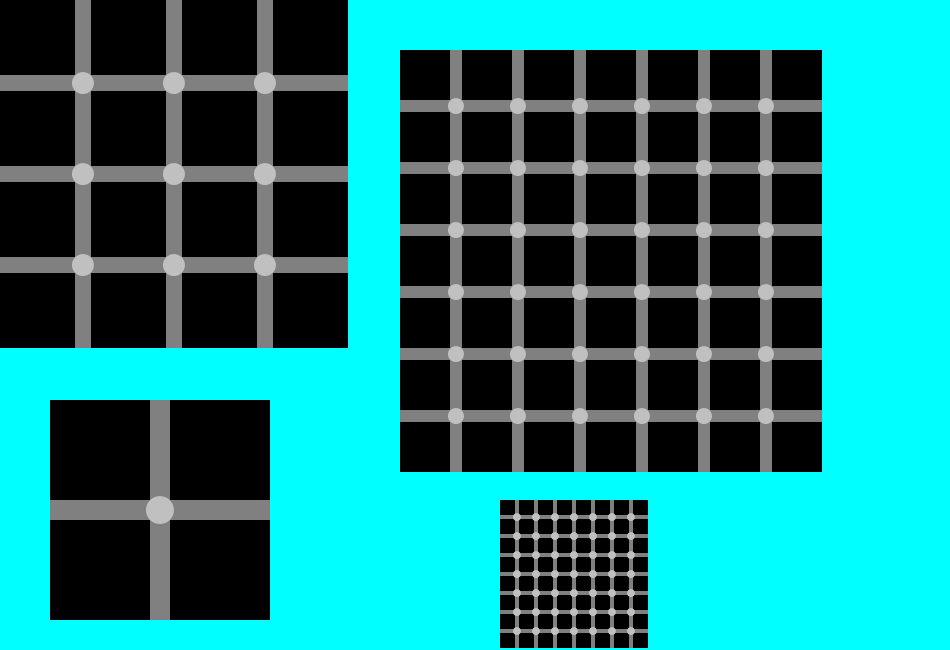
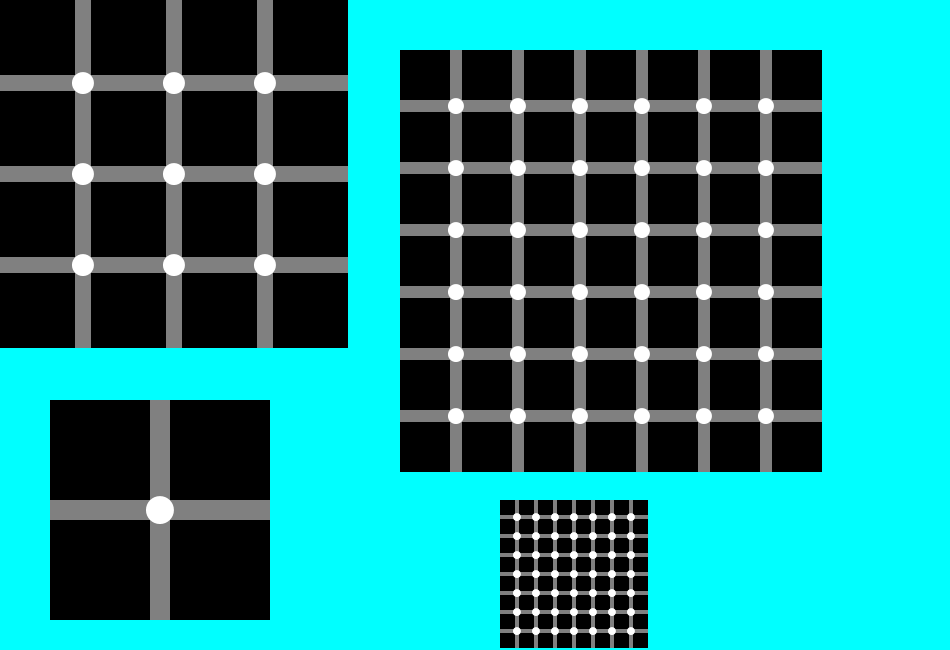
Finished MyPicture.java

diff --git a/UniUnison/project03/MyPicture.java b/UniUnison/project03/MyPicture.java
@@ -5,7 +5,7 @@ import java.io.IOException;
 /**
  * CS312 Assignment 3.
  *
- * Replace <NAME> with your name, stating on your honor you completed this
+ * Replace Pheanouk Hun with your name, stating on your honor you completed this
  * assignment on your own and that you didn't share your code with other
  * students.
  * 
@@ -48,6 +48,10 @@ public class MyPicture {
 
 	// This is an example graphic. Delete the body of this method and write your own.
 	// Do not alter the method header.
+	// Purpose: Draws Both Half of the Flags
+	// Parameters: gr - graphics object
+	// Output: Draws the American and Cambodian Flags
+	// Return: none
 	private static void drawPicture(Graphics gr) {
 		gr.setColor(BLACK_COLOR);
 		gr.fillRect(0, 0, WIDTH, HEIGHT);
@@ -56,12 +60,20 @@ public class MyPicture {
 		drawCambodianSide(gr);
 	}
 
+	// Purpose: This method draws the American Side of the Function
+	// Parameters: gr - graphics object
+	// Output: Draws the American Side of the Flags
+	// Return: none
 	public static void drawAmericanSide(Graphics gr) {
 		drawStripes(gr);
 		drawBlueSection(gr);
 		drawStarSection(gr); 
 	}
 
+	// Purpose: This method draws the Blue Square of the American Flag
+	// Parameters: gr - graphics object
+	// Output: Draws the Blue Square in the Top Left Portion of the Flag.
+	// Return: none
 	public static void drawBlueSection(Graphics gr) {
 		int blueSectionX = PIXEL;
 		int blueSectionY = PIXEL;
@@ -71,6 +83,10 @@ public class MyPicture {
 		gr.fillRect(blueSectionX, blueSectionY, blueSectionDimension, blueSectionDimension);
 	}
 
+	// Purpose: This Method draws the Stars in the Top-Left portion of the American Flag
+	// Parameters: gr - graphics object
+	// Output: This method draws 13 boxes to the Top-Left Corner of the American Flag
+	// Return: none
 	public static void drawStarSection(Graphics gr) {
 
 		int stepSize = 2 * PIXEL;
@@ -82,10 +98,12 @@ public class MyPicture {
 		startingX = 3 * PIXEL;
 		startingY = 3 * PIXEL;
 		drawEvenStars(gr, startingX, startingY, stepSize);
-
-		
 	}
 
+	// Purpose: This method draws the Odd numbered stars in the Top-Left Portion of the American Flag
+	// Parameters: gr - graphics object
+	// Output: This method draws 9 Stars to the Flag in the Top-Left Corner of the American Flag.
+	// Return: none
 	public static void drawOddStars(Graphics gr, int startingX, int startingY, int stepSize) {
 		int numOddRows = 3;
 		int numOddStars = 3;
@@ -94,7 +112,11 @@ public class MyPicture {
 
 		int currX = startingX;
 		int currY = startingY;
+
+		// Outer Loop Runs Once per Row of Stars
 		for (int i = 0; i < numOddRows; i++) {
+
+			// Inner Loop runs once per Stars Being Print
 			for (int j = 0; j < numOddStars; j++) {
 				gr.fillRect(currX, currY, PIXEL, PIXEL);
 				currX += stepSize;
@@ -104,6 +126,10 @@ public class MyPicture {
 		}
 	}
 
+	// Purpose: This method draws the Even numbered stars in the Top-Left Portion of the American Flag
+	// Parameters: gr - graphics object
+	// Output: This method draws 4 Stars to the Flag in the Top-Left Corner of the American Flag.
+	// Return: none
 	public static void drawEvenStars(Graphics gr, int startingX, int startingY, int stepSize) {
 		int numEvenRows = 2;
 		int numEvenStars = 2;
@@ -112,7 +138,11 @@ public class MyPicture {
 
 		int currX = startingX;
 		int currY = startingY;
+		
+		// Outer Loop Runs Once per Row of Stars
 		for (int i = 0; i < numEvenRows; i++) {
+
+			// Inner Loop runs once per Stars Being Print
 			for (int j = 0; j < numEvenStars; j++) {
 				gr.fillRect(currX, currY, PIXEL, PIXEL);
 				currX += stepSize;
@@ -123,36 +153,50 @@ public class MyPicture {
 		}
 	}
 
+	// Purpose: This method draws the 13 White and Red Strips in the American Flag
+	// Parameters: gr - graphics object
+	// Output: This method draws 13 Stripe to the American Flag.
+	// Return: none
 	public static void drawStripes(Graphics gr) {
-		int y = PIXEL;
+		int yValue = PIXEL;
 		int separation = 2 * PIXEL;
 		int numRedStripes = 7;
 		int numWhiteStripes = 6;
 		int stripeWidth = PIXEL * 12;
 
 		gr.setColor(RED_COLOR);
+
+		// The Loop Runs Once per red stripe Shown
 		for (int i = 0; i < numRedStripes; i++) {
-			gr.fillRect(PIXEL, y, stripeWidth, PIXEL);
-			y += separation;
+			gr.fillRect(PIXEL, yValue, stripeWidth, PIXEL);
+			yValue += separation;
 		}
 
-		y = 2 * PIXEL;
+		yValue = 2 * PIXEL;
 
 		gr.setColor(WHITE_COLOR);
+
+		// The Loop Runs Once per White Stripe Shown
 		for (int i = 0; i < numWhiteStripes; i++) {
-			gr.fillRect(PIXEL, y, stripeWidth, PIXEL);
-			y += separation;
+			gr.fillRect(PIXEL, yValue, stripeWidth, PIXEL);
+			yValue += separation;
 		}
 	}
 
+	// Purpose: This method draws the Cambodian Flag
+	// Parameters: gr - graphics object
+	// Output: This method draws half the Cambodian Flag on the Right side of the Screen
+	// Return: none
 	public static void drawCambodianSide(Graphics gr) {
-
 		int flagStartX = 14 * PIXEL;
-
 		drawCambodianBackground(gr, flagStartX);
 		drawAngkorWat(gr, flagStartX);
 	}
 
+	// Purpose: This method draws the Background Cambodian Flag
+	// Parameters: gr - graphics object
+	// Output: This method draws the 2 Blue Banners and Red background of the Flag.
+	// Return: none
 	public static void drawCambodianBackground(Graphics gr, int startingX) {
 		int stripeWidth = 12 * PIXEL;
 		int blueStripeHeight = 2 * PIXEL;
@@ -170,6 +214,10 @@ public class MyPicture {
 		gr.fillRect(startingX, redStripeY, stripeWidth, redStripeHeight);
 	}
 
+	// Purpose: Draws the Angkor Wat structure in the center of the Cambodian flag.
+	// Parameters: gr - graphics object, startingX - x coordinate of the left side of Angkor Wat
+	// Output: Draws the base rectangle, staircase, and towers of Angkor Wat
+	// Return: none
 	public static void drawAngkorWat(Graphics gr, int startingX) {
 		
 		int middleSectionY = 7 * PIXEL;
@@ -186,13 +234,23 @@ public class MyPicture {
 		drawTowers(gr, startingX);
 	}
 
+	// Purpose: Draws a staircase structure next to the Angkor Wat base on the Cambodian flag.
+	// Parameters: gr - graphics object
+	//             startingX - x coordinate of the left side of the staircase
+	//             startingY - y coordinate of the top of the staircase
+	// Output: Draws three levels of the staircase, each level wider than the one above.
+	// Return: none
+
 	public static void drawStaircase(Graphics gr, int startingX, int startingY) {
 		
 		int levels = 3;
 		gr.setColor(WHITE_COLOR);
 
+		// Loop runs once per staircase level
 		for (int i = 1; i <= levels; i++) {
 			int currX = startingX;
+
+			// Loop runs once per block in the current level
 			for (int j = 0; j < i; j++) {
 				gr.fillRect(currX, startingY, PIXEL, PIXEL);
 				currX += PIXEL;
@@ -200,6 +258,12 @@ public class MyPicture {
 			startingY += PIXEL;
 		}
 	}
+
+	// Purpose: Draws the two central towers of Angkor Wat on the Cambodian flag.
+	// Parameters: gr - graphics object
+	//             startingX - x coordinate of the left side of the temple base
+	// Output: Draws two towers, each with a rectangular base and a single block top.
+	// Return: none
 
 	public static void drawTowers(Graphics gr, int startingX) {
 		gr.setColor(WHITE_COLOR);

diff --git a/UniUnison/project03/ScintillationGrid.java b/UniUnison/project03/ScintillationGrid.java
@@ -123,7 +123,7 @@ public class ScintillationGrid {
         int initialDotX = x - dotPadding / 2;
         int initialDotY = y - dotPadding / 2;
 
-        gr.setColor(Color.LIGHT_GRAY);
+        gr.setColor(Color.WHITE);
 
         // Outer Loop Runs Once per Row of Dots
         for (int i = 0; i < numDotsLinePerLine; i++) {